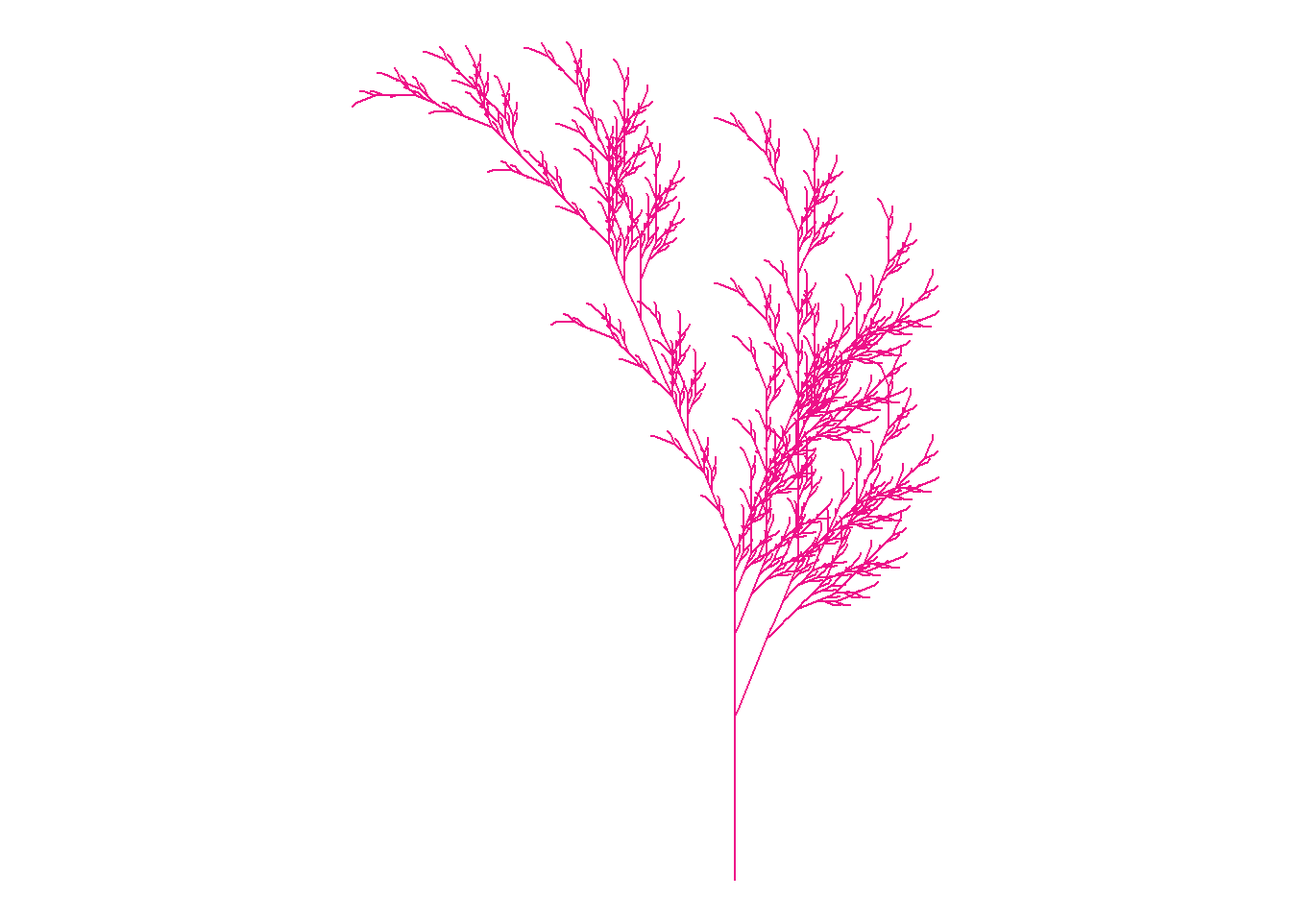
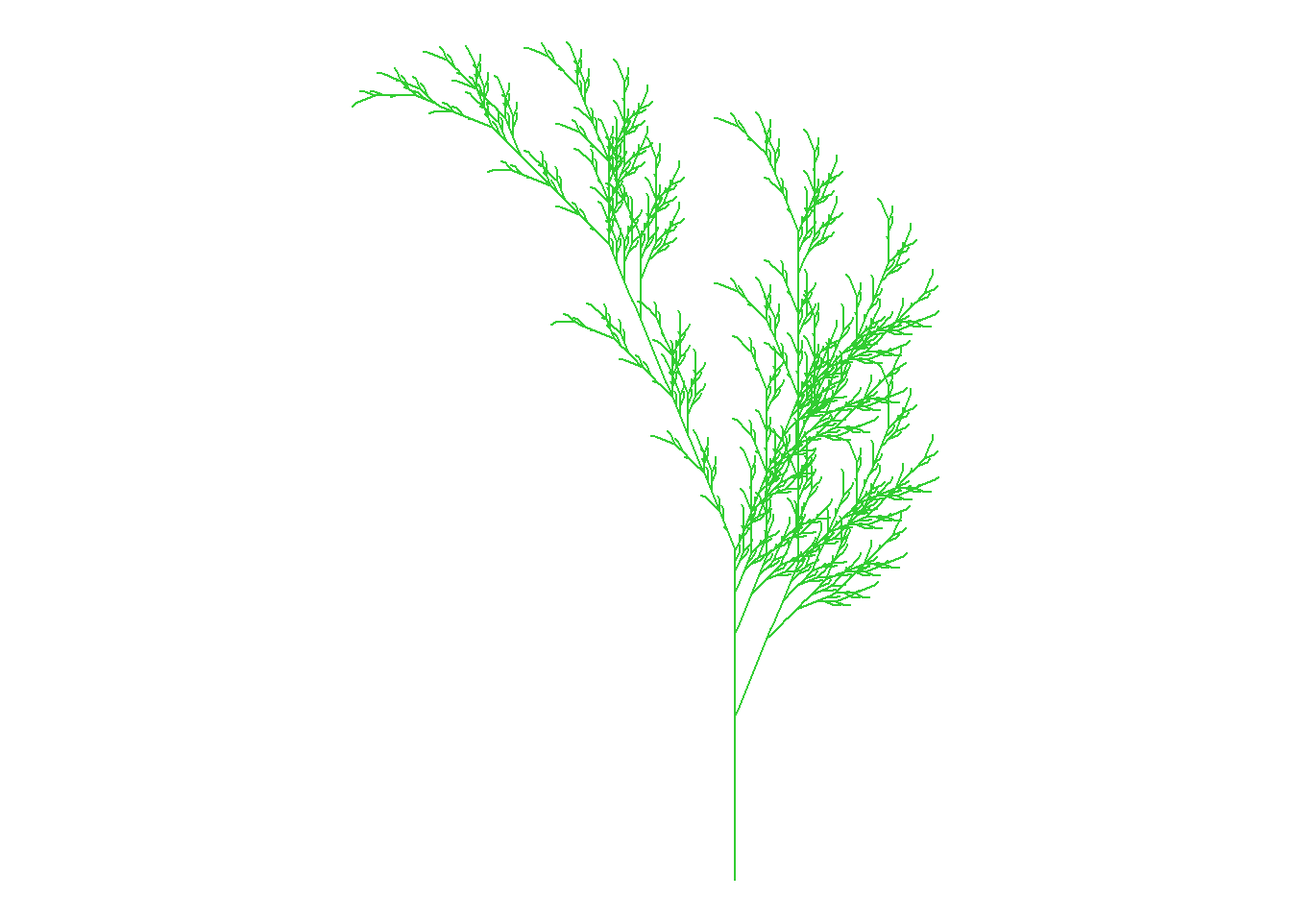
Add files via upload

Changed region(s): [[0.5, 0.1562, 0.7188, 0.6875], [0.2812, 0.0625, 0.5625, 0.4375], [0.5625, 0.125, 0.5938, 0.1562]]

diff --git a/assign01.html b/assign01.html
@@ -226,23 +226,21 @@ code span.wa { color: #60a0b0; font-weight: bold; font-style: italic; } /* Warni
 <section id="source-1-cf12_740-by-mark-j.-stock." class="level3">
 <h3 class="anchored" data-anchor-id="source-1-cf12_740-by-mark-j.-stock.">Source 1: CF12_740 by Mark J. Stock.</h3>
 <p>The page features stunning examples of generative art.</p>
-<div class="CF12_740">
-<p><img src="https://images.squarespace-cdn.com/content/v1/56229771e4b08ff533e7de79/1525204005127-5M79BWJHWPLBF67EXMQ5/CF12_740_2000.jpg" class="img-fluid" style="width:60.0%"></p>
-</div>
+<p>CF12_740 <img src="https://images.squarespace-cdn.com/content/v1/56229771e4b08ff533e7de79/1525204005127-5M79BWJHWPLBF67EXMQ5/CF12_740_2000.jpg" class="img-fluid" style="width:60.0%"></p>
 </section>
 <section id="source-2-fifty-sisters-by-jon-mccormack" class="level3">
 <h3 class="anchored" data-anchor-id="source-2-fifty-sisters-by-jon-mccormack">Source 2: Fifty Sisters by Jon McCormack</h3>
-<p>::: Fifty Sisters <img src="https://images.squarespace-cdn.com/content/v1/5c77350965a707ed1710a1bc/1564619956639-3MYJ13R8XFZ6YXKZ368C/FiftySisters.png" class="img-fluid" style="width:60.0%"></p>
-<p>:::</p>
+<p>Fifty Sisters <img src="https://images.squarespace-cdn.com/content/v1/5c77350965a707ed1710a1bc/1564619956639-3MYJ13R8XFZ6YXKZ368C/FiftySisters.png" class="img-fluid" style="width:60.0%"></p>
 </section>
 <section id="source-3-electric-sheep-by-scott-draves" class="level3">
 <h3 class="anchored" data-anchor-id="source-3-electric-sheep-by-scott-draves">Source 3: Electric Sheep by Scott Draves</h3>
-<p>::: Electric Sheep <img src="http://electricsheep.com/archives/generation-243/16927/electricsheep.243.16927.jpg" class="img-fluid" style="width:70.0%"> :::</p>
+<p>Electric Sheep <img src="http://electricsheep.com/archives/generation-243/16927/electricsheep.243.16927.jpg" class="img-fluid" style="width:70.0%"></p>
 </section>
 </section>
 <section id="fall-color" class="level2">
 <h2 class="anchored" data-anchor-id="fall-color">2. Fall Color</h2>
-<p>This is a modified version of “Fall Color,” using the color “deep pink” instead of “burlywood3.”</p>
+<p>This is a modified version of “Fall Color,” using the color “limegreen” instead of “burlywood3.”</p>
+<p>I don’t want summer to end so I brought the leaf back to life.</p>
 <p>Credit: <a href="https://fronkonstin.com" class="uri">https://fronkonstin.com</a></p>
 <div class="cell">
 <details>
@@ -300,7 +298,7 @@ code span.wa { color: #60a0b0; font-weight: bold; font-style: italic; } /* Warni
 <span id="cb1-51"><a href="#cb1-51" aria-hidden="true" tabindex="-1"></a><span class="fu">ggplot</span>() <span class="sc">+</span></span>
 <span id="cb1-52"><a href="#cb1-52" aria-hidden="true" tabindex="-1"></a>  <span class="fu">geom_segment</span>(<span class="fu">aes</span>(<span class="at">x =</span> x1, <span class="at">y =</span> y1, <span class="at">xend =</span> x2, <span class="at">yend =</span> y2),</span>
 <span id="cb1-53"><a href="#cb1-53" aria-hidden="true" tabindex="-1"></a>               <span class="at">lineend =</span> <span class="st">"round"</span>,</span>
-<span id="cb1-54"><a href="#cb1-54" aria-hidden="true" tabindex="-1"></a>               <span class="at">color=</span><span class="st">"deeppink2"</span>, <span class="co"># Set your own Fall color?</span></span>
+<span id="cb1-54"><a href="#cb1-54" aria-hidden="true" tabindex="-1"></a>               <span class="at">color=</span><span class="st">"limegreen"</span>, <span class="co"># Set your own Fall color? </span></span>
 <span id="cb1-55"><a href="#cb1-55" aria-hidden="true" tabindex="-1"></a>               <span class="at">data=</span><span class="fu">na.omit</span>(points)) <span class="sc">+</span></span>
 <span id="cb1-56"><a href="#cb1-56" aria-hidden="true" tabindex="-1"></a>  <span class="fu">coord_fixed</span>(<span class="at">ratio =</span> <span class="dv">1</span>) <span class="sc">+</span></span>
 <span id="cb1-57"><a href="#cb1-57" aria-hidden="true" tabindex="-1"></a>  <span class="fu">theme_void</span>() <span class="co"># No grid nor axes</span></span></code><button title="Copy to Clipboard" class="code-copy-button"><i class="bi"></i></button></pre></div>
@@ -309,7 +307,7 @@ code span.wa { color: #60a0b0; font-weight: bold; font-style: italic; } /* Warni
 <div id="fig-black" class="quarto-figure quarto-figure-center anchored">
 <figure class="figure">
 <p><img src="assign01_files/figure-html/fig-black-1.png" class="img-fluid figure-img" width="672"></p>
-<p></p><figcaption class="figure-caption">Figure&nbsp;1: black Color</figcaption><p></p>
+<p></p><figcaption class="figure-caption">Figure&nbsp;1: Lime Green (Alive) Leaf</figcaption><p></p>
 </figure>
 </div>
 </div>
@@ -318,7 +316,7 @@ code span.wa { color: #60a0b0; font-weight: bold; font-style: italic; } /* Warni
 <section id="critique-on-a-chart-from-published-work" class="level2">
 <h2 class="anchored" data-anchor-id="critique-on-a-chart-from-published-work">3. Critique on a chart from published work</h2>
 <p>This chart from Zillow Observed Rent Index and the US Bureau of Labor Statistics shows rent prices outpacing wages in recent years. It shows two lines of different colors, one to represent wages, one to represent rent prices. The chart shows that rent prices are increasing faster than wages, which shows the viewer that rent is becoming increasingly unaffordable.</p>
-<p>::: Rent When Compared to Wages <img src="https://wp-assets.stessa.com/wp-content/uploads/2021/11/02101430/Chart1_Changes-in-rental-prices-are-dramatically-outpacing-changes-in-pay.png" class="img-fluid" style="width:70.0%"></p>
+<p>Rent When Compared to Wages <img src="https://wp-assets.stessa.com/wp-content/uploads/2021/11/02101430/Chart1_Changes-in-rental-prices-are-dramatically-outpacing-changes-in-pay.png" class="img-fluid" style="width:70.0%"></p>
 <p>Rent prices compared to wages :::</p>
 <p>https://www.stessa.com/blog/cities-wages-growing-faster-than-rents/</p>
 
@@ -495,98 +493,100 @@ window.document.addEventListener("DOMContentLoaded", function (event) {
 <span id="cb2-16"><a href="#cb2-16" aria-hidden="true" tabindex="-1"></a></span>
 <span id="cb2-17"><a href="#cb2-17" aria-hidden="true" tabindex="-1"></a>The page features stunning examples of generative art.</span>
 <span id="cb2-18"><a href="#cb2-18" aria-hidden="true" tabindex="-1"></a></span>
-<span id="cb2-19"><a href="#cb2-19" aria-hidden="true" tabindex="-1"></a>::: CF12_740</span>
+<span id="cb2-19"><a href="#cb2-19" aria-hidden="true" tabindex="-1"></a>CF12_740</span>
 <span id="cb2-20"><a href="#cb2-20" aria-hidden="true" tabindex="-1"></a><span class="al">![](https://images.squarespace-cdn.com/content/v1/56229771e4b08ff533e7de79/1525204005127-5M79BWJHWPLBF67EXMQ5/CF12_740_2000.jpg)</span>{width="60%"}</span>
-<span id="cb2-21"><a href="#cb2-21" aria-hidden="true" tabindex="-1"></a>:::</span>
+<span id="cb2-21"><a href="#cb2-21" aria-hidden="true" tabindex="-1"></a></span>
 <span id="cb2-22"><a href="#cb2-22" aria-hidden="true" tabindex="-1"></a></span>
 <span id="cb2-23"><a href="#cb2-23" aria-hidden="true" tabindex="-1"></a><span class="fu">### Source 2: Fifty Sisters by Jon McCormack</span></span>
 <span id="cb2-24"><a href="#cb2-24" aria-hidden="true" tabindex="-1"></a></span>
-<span id="cb2-25"><a href="#cb2-25" aria-hidden="true" tabindex="-1"></a>::: Fifty Sisters <span class="al">![](https://images.squarespace-cdn.com/content/v1/5c77350965a707ed1710a1bc/1564619956639-3MYJ13R8XFZ6YXKZ368C/FiftySisters.png)</span>{width="60%"}</span>
+<span id="cb2-25"><a href="#cb2-25" aria-hidden="true" tabindex="-1"></a>Fifty Sisters <span class="al">![](https://images.squarespace-cdn.com/content/v1/5c77350965a707ed1710a1bc/1564619956639-3MYJ13R8XFZ6YXKZ368C/FiftySisters.png)</span>{width="60%"}</span>
 <span id="cb2-26"><a href="#cb2-26" aria-hidden="true" tabindex="-1"></a></span>
-<span id="cb2-27"><a href="#cb2-27" aria-hidden="true" tabindex="-1"></a>:::</span>
+<span id="cb2-27"><a href="#cb2-27" aria-hidden="true" tabindex="-1"></a></span>
 <span id="cb2-28"><a href="#cb2-28" aria-hidden="true" tabindex="-1"></a></span>
 <span id="cb2-29"><a href="#cb2-29" aria-hidden="true" tabindex="-1"></a><span class="fu">### Source 3: Electric Sheep by Scott Draves</span></span>
 <span id="cb2-30"><a href="#cb2-30" aria-hidden="true" tabindex="-1"></a></span>
-<span id="cb2-31"><a href="#cb2-31" aria-hidden="true" tabindex="-1"></a>::: Electric Sheep <span class="al">![](http://electricsheep.com/archives/generation-243/16927/electricsheep.243.16927.jpg)</span>{width="70%"} :::</span>
+<span id="cb2-31"><a href="#cb2-31" aria-hidden="true" tabindex="-1"></a>Electric Sheep <span class="al">![](http://electricsheep.com/archives/generation-243/16927/electricsheep.243.16927.jpg)</span>{width="70%"} </span>
 <span id="cb2-32"><a href="#cb2-32" aria-hidden="true" tabindex="-1"></a></span>
 <span id="cb2-33"><a href="#cb2-33" aria-hidden="true" tabindex="-1"></a><span class="fu">## 2. Fall Color</span></span>
 <span id="cb2-34"><a href="#cb2-34" aria-hidden="true" tabindex="-1"></a></span>
-<span id="cb2-35"><a href="#cb2-35" aria-hidden="true" tabindex="-1"></a>This is a modified version of "Fall Color," using the color "deep pink" instead of "burlywood3."</span>
+<span id="cb2-35"><a href="#cb2-35" aria-hidden="true" tabindex="-1"></a>This is a modified version of "Fall Color," using the color "limegreen" instead of "burlywood3."</span>
 <span id="cb2-36"><a href="#cb2-36" aria-hidden="true" tabindex="-1"></a></span>
-<span id="cb2-37"><a href="#cb2-37" aria-hidden="true" tabindex="-1"></a>Credit: <span class="ot">&lt;https://fronkonstin.com&gt;</span></span>
+<span id="cb2-37"><a href="#cb2-37" aria-hidden="true" tabindex="-1"></a>I don't want summer to end so I brought the leaf back to life.</span>
 <span id="cb2-38"><a href="#cb2-38" aria-hidden="true" tabindex="-1"></a></span>
-<span id="cb2-41"><a href="#cb2-41" aria-hidden="true" tabindex="-1"></a><span class="in">```{r}</span></span>
-<span id="cb2-42"><a href="#cb2-42" aria-hidden="true" tabindex="-1"></a><span class="co">#| warning: false</span></span>
-<span id="cb2-43"><a href="#cb2-43" aria-hidden="true" tabindex="-1"></a><span class="co">#| label: fig-black</span></span>
-<span id="cb2-44"><a href="#cb2-44" aria-hidden="true" tabindex="-1"></a><span class="co">#| fig-cap: "black Color"</span></span>
-<span id="cb2-45"><a href="#cb2-45" aria-hidden="true" tabindex="-1"></a><span class="co"># Install packages</span></span>
-<span id="cb2-46"><a href="#cb2-46" aria-hidden="true" tabindex="-1"></a><span class="co"># install.packages("gsubfn")</span></span>
-<span id="cb2-47"><a href="#cb2-47" aria-hidden="true" tabindex="-1"></a><span class="co"># install.packages("tidyverse")</span></span>
-<span id="cb2-48"><a href="#cb2-48" aria-hidden="true" tabindex="-1"></a><span class="fu">library</span>(gsubfn)</span>
-<span id="cb2-49"><a href="#cb2-49" aria-hidden="true" tabindex="-1"></a><span class="fu">library</span>(tidyverse)</span>
-<span id="cb2-50"><a href="#cb2-50" aria-hidden="true" tabindex="-1"></a><span class="co"># Define elements in plant art</span></span>
-<span id="cb2-51"><a href="#cb2-51" aria-hidden="true" tabindex="-1"></a><span class="co"># Each image corresponds to a different axiom, rules, angle and depth</span></span>
-<span id="cb2-52"><a href="#cb2-52" aria-hidden="true" tabindex="-1"></a><span class="co"># Leaf of Fall</span></span>
-<span id="cb2-53"><a href="#cb2-53" aria-hidden="true" tabindex="-1"></a>axiom<span class="ot">=</span><span class="st">"X"</span></span>
-<span id="cb2-54"><a href="#cb2-54" aria-hidden="true" tabindex="-1"></a>rules<span class="ot">=</span><span class="fu">list</span>(<span class="st">"X"</span><span class="ot">=</span><span class="st">"F-[[X]+X]+F[+FX]-X"</span>, <span class="st">"F"</span><span class="ot">=</span><span class="st">"FF"</span>)</span>
-<span id="cb2-55"><a href="#cb2-55" aria-hidden="true" tabindex="-1"></a>angle<span class="ot">=</span><span class="fl">22.5</span></span>
-<span id="cb2-56"><a href="#cb2-56" aria-hidden="true" tabindex="-1"></a>depth<span class="ot">=</span><span class="dv">6</span></span>
-<span id="cb2-57"><a href="#cb2-57" aria-hidden="true" tabindex="-1"></a><span class="cf">for</span> (i <span class="cf">in</span> <span class="dv">1</span><span class="sc">:</span>depth) axiom<span class="ot">=</span><span class="fu">gsubfn</span>(<span class="st">"."</span>, rules, axiom)</span>
-<span id="cb2-58"><a href="#cb2-58" aria-hidden="true" tabindex="-1"></a>actions<span class="ot">=</span><span class="fu">str_extract_all</span>(axiom, <span class="st">"</span><span class="sc">\\</span><span class="st">d*</span><span class="sc">\\</span><span class="st">+|</span><span class="sc">\\</span><span class="st">d*</span><span class="sc">\\</span><span class="st">-|F|L|R|</span><span class="sc">\\</span><span class="st">[|</span><span class="sc">\\</span><span class="st">]|</span><span class="sc">\\</span><span class="st">|"</span>) <span class="sc">%&gt;%</span> unlist</span>
-<span id="cb2-59"><a href="#cb2-59" aria-hidden="true" tabindex="-1"></a>status<span class="ot">=</span><span class="fu">data.frame</span>(<span class="at">x=</span><span class="fu">numeric</span>(<span class="dv">0</span>), <span class="at">y=</span><span class="fu">numeric</span>(<span class="dv">0</span>), <span class="at">alfa=</span><span class="fu">numeric</span>(<span class="dv">0</span>))</span>
-<span id="cb2-60"><a href="#cb2-60" aria-hidden="true" tabindex="-1"></a>points<span class="ot">=</span><span class="fu">data.frame</span>(<span class="at">x1 =</span> <span class="dv">0</span>, <span class="at">y1 =</span> <span class="dv">0</span>, <span class="at">x2 =</span> <span class="cn">NA</span>, <span class="at">y2 =</span> <span class="cn">NA</span>, <span class="at">alfa=</span><span class="dv">90</span>, <span class="at">depth=</span><span class="dv">1</span>)</span>
-<span id="cb2-61"><a href="#cb2-61" aria-hidden="true" tabindex="-1"></a><span class="co"># Generating data</span></span>
-<span id="cb2-62"><a href="#cb2-62" aria-hidden="true" tabindex="-1"></a><span class="co"># Note: may take a minute or two</span></span>
-<span id="cb2-63"><a href="#cb2-63" aria-hidden="true" tabindex="-1"></a><span class="cf">for</span> (action <span class="cf">in</span> actions)</span>
-<span id="cb2-64"><a href="#cb2-64" aria-hidden="true" tabindex="-1"></a>{</span>
-<span id="cb2-65"><a href="#cb2-65" aria-hidden="true" tabindex="-1"></a>  <span class="cf">if</span> (action<span class="sc">==</span><span class="st">"F"</span>)</span>
-<span id="cb2-66"><a href="#cb2-66" aria-hidden="true" tabindex="-1"></a>  {</span>
-<span id="cb2-67"><a href="#cb2-67" aria-hidden="true" tabindex="-1"></a>    x<span class="ot">=</span>points[<span class="dv">1</span>, <span class="st">"x1"</span>]<span class="sc">+</span><span class="fu">cos</span>(points[<span class="dv">1</span>, <span class="st">"alfa"</span>]<span class="sc">*</span>(pi<span class="sc">/</span><span class="dv">180</span>))</span>
-<span id="cb2-68"><a href="#cb2-68" aria-hidden="true" tabindex="-1"></a>    y<span class="ot">=</span>points[<span class="dv">1</span>, <span class="st">"y1"</span>]<span class="sc">+</span><span class="fu">sin</span>(points[<span class="dv">1</span>, <span class="st">"alfa"</span>]<span class="sc">*</span>(pi<span class="sc">/</span><span class="dv">180</span>))</span>
-<span id="cb2-69"><a href="#cb2-69" aria-hidden="true" tabindex="-1"></a>    points[<span class="dv">1</span>,<span class="st">"x2"</span>]<span class="ot">=</span>x</span>
-<span id="cb2-70"><a href="#cb2-70" aria-hidden="true" tabindex="-1"></a>    points[<span class="dv">1</span>,<span class="st">"y2"</span>]<span class="ot">=</span>y</span>
-<span id="cb2-71"><a href="#cb2-71" aria-hidden="true" tabindex="-1"></a>    <span class="fu">data.frame</span>(<span class="at">x1 =</span> x, <span class="at">y1 =</span> y, <span class="at">x2 =</span> <span class="cn">NA</span>, <span class="at">y2 =</span> <span class="cn">NA</span>,</span>
-<span id="cb2-72"><a href="#cb2-72" aria-hidden="true" tabindex="-1"></a>               <span class="at">alfa=</span>points[<span class="dv">1</span>, <span class="st">"alfa"</span>],</span>
-<span id="cb2-73"><a href="#cb2-73" aria-hidden="true" tabindex="-1"></a>               <span class="at">depth=</span>points[<span class="dv">1</span>,<span class="st">"depth"</span>]) <span class="sc">%&gt;%</span> <span class="fu">rbind</span>(points)<span class="ot">-&gt;</span>points</span>
-<span id="cb2-74"><a href="#cb2-74" aria-hidden="true" tabindex="-1"></a>  }</span>
-<span id="cb2-75"><a href="#cb2-75" aria-hidden="true" tabindex="-1"></a>  <span class="cf">if</span> (action <span class="sc">%in%</span> <span class="fu">c</span>(<span class="st">"+"</span>, <span class="st">"-"</span>)){</span>
-<span id="cb2-76"><a href="#cb2-76" aria-hidden="true" tabindex="-1"></a>    alfa<span class="ot">=</span>points[<span class="dv">1</span>, <span class="st">"alfa"</span>]</span>
-<span id="cb2-77"><a href="#cb2-77" aria-hidden="true" tabindex="-1"></a>    points[<span class="dv">1</span>, <span class="st">"alfa"</span>]<span class="ot">=</span><span class="fu">eval</span>(<span class="fu">parse</span>(<span class="at">text=</span><span class="fu">paste0</span>(<span class="st">"alfa"</span>,action, angle)))</span>
-<span id="cb2-78"><a href="#cb2-78" aria-hidden="true" tabindex="-1"></a>  }</span>
-<span id="cb2-79"><a href="#cb2-79" aria-hidden="true" tabindex="-1"></a>  <span class="cf">if</span>(action<span class="sc">==</span><span class="st">"["</span>){</span>
-<span id="cb2-80"><a href="#cb2-80" aria-hidden="true" tabindex="-1"></a>    <span class="fu">data.frame</span>(<span class="at">x=</span>points[<span class="dv">1</span>, <span class="st">"x1"</span>], <span class="at">y=</span>points[<span class="dv">1</span>, <span class="st">"y1"</span>], <span class="at">alfa=</span>points[<span class="dv">1</span>, <span class="st">"alfa"</span>]) <span class="sc">%&gt;%</span></span>
-<span id="cb2-81"><a href="#cb2-81" aria-hidden="true" tabindex="-1"></a>      <span class="fu">rbind</span>(status) <span class="ot">-&gt;</span> status</span>
-<span id="cb2-82"><a href="#cb2-82" aria-hidden="true" tabindex="-1"></a>    points[<span class="dv">1</span>, <span class="st">"depth"</span>]<span class="ot">=</span>points[<span class="dv">1</span>, <span class="st">"depth"</span>]<span class="sc">+</span><span class="dv">1</span></span>
-<span id="cb2-83"><a href="#cb2-83" aria-hidden="true" tabindex="-1"></a>  }</span>
-<span id="cb2-84"><a href="#cb2-84" aria-hidden="true" tabindex="-1"></a>  </span>
-<span id="cb2-85"><a href="#cb2-85" aria-hidden="true" tabindex="-1"></a>  <span class="cf">if</span>(action<span class="sc">==</span><span class="st">"]"</span>){</span>
-<span id="cb2-86"><a href="#cb2-86" aria-hidden="true" tabindex="-1"></a>    depth<span class="ot">=</span>points[<span class="dv">1</span>, <span class="st">"depth"</span>]</span>
-<span id="cb2-87"><a href="#cb2-87" aria-hidden="true" tabindex="-1"></a>    points[<span class="sc">-</span><span class="dv">1</span>,]<span class="ot">-&gt;</span>points</span>
-<span id="cb2-88"><a href="#cb2-88" aria-hidden="true" tabindex="-1"></a>    <span class="fu">data.frame</span>(<span class="at">x1=</span>status[<span class="dv">1</span>, <span class="st">"x"</span>], <span class="at">y1=</span>status[<span class="dv">1</span>, <span class="st">"y"</span>], <span class="at">x2=</span><span class="cn">NA</span>, <span class="at">y2=</span><span class="cn">NA</span>,</span>
-<span id="cb2-89"><a href="#cb2-89" aria-hidden="true" tabindex="-1"></a>               <span class="at">alfa=</span>status[<span class="dv">1</span>, <span class="st">"alfa"</span>],</span>
-<span id="cb2-90"><a href="#cb2-90" aria-hidden="true" tabindex="-1"></a>               <span class="at">depth=</span>depth<span class="dv">-1</span>) <span class="sc">%&gt;%</span></span>
-<span id="cb2-91"><a href="#cb2-91" aria-hidden="true" tabindex="-1"></a>      <span class="fu">rbind</span>(points) <span class="ot">-&gt;</span> points</span>
-<span id="cb2-92"><a href="#cb2-92" aria-hidden="true" tabindex="-1"></a>    status[<span class="sc">-</span><span class="dv">1</span>,]<span class="ot">-&gt;</span>status</span>
-<span id="cb2-93"><a href="#cb2-93" aria-hidden="true" tabindex="-1"></a>  }</span>
-<span id="cb2-94"><a href="#cb2-94" aria-hidden="true" tabindex="-1"></a>}</span>
-<span id="cb2-95"><a href="#cb2-95" aria-hidden="true" tabindex="-1"></a><span class="fu">ggplot</span>() <span class="sc">+</span></span>
-<span id="cb2-96"><a href="#cb2-96" aria-hidden="true" tabindex="-1"></a>  <span class="fu">geom_segment</span>(<span class="fu">aes</span>(<span class="at">x =</span> x1, <span class="at">y =</span> y1, <span class="at">xend =</span> x2, <span class="at">yend =</span> y2),</span>
-<span id="cb2-97"><a href="#cb2-97" aria-hidden="true" tabindex="-1"></a>               <span class="at">lineend =</span> <span class="st">"round"</span>,</span>
-<span id="cb2-98"><a href="#cb2-98" aria-hidden="true" tabindex="-1"></a>               <span class="at">color=</span><span class="st">"deeppink2"</span>, <span class="co"># Set your own Fall color?</span></span>
-<span id="cb2-99"><a href="#cb2-99" aria-hidden="true" tabindex="-1"></a>               <span class="at">data=</span><span class="fu">na.omit</span>(points)) <span class="sc">+</span></span>
-<span id="cb2-100"><a href="#cb2-100" aria-hidden="true" tabindex="-1"></a>  <span class="fu">coord_fixed</span>(<span class="at">ratio =</span> <span class="dv">1</span>) <span class="sc">+</span></span>
-<span id="cb2-101"><a href="#cb2-101" aria-hidden="true" tabindex="-1"></a>  <span class="fu">theme_void</span>() <span class="co"># No grid nor axes</span></span>
-<span id="cb2-102"><a href="#cb2-102" aria-hidden="true" tabindex="-1"></a><span class="in">```</span></span>
-<span id="cb2-103"><a href="#cb2-103" aria-hidden="true" tabindex="-1"></a></span>
-<span id="cb2-104"><a href="#cb2-104" aria-hidden="true" tabindex="-1"></a><span class="fu">## 3. Critique on a chart from published work</span></span>
+<span id="cb2-39"><a href="#cb2-39" aria-hidden="true" tabindex="-1"></a>Credit: <span class="ot">&lt;https://fronkonstin.com&gt;</span></span>
+<span id="cb2-40"><a href="#cb2-40" aria-hidden="true" tabindex="-1"></a></span>
+<span id="cb2-43"><a href="#cb2-43" aria-hidden="true" tabindex="-1"></a><span class="in">```{r}</span></span>
+<span id="cb2-44"><a href="#cb2-44" aria-hidden="true" tabindex="-1"></a><span class="co">#| warning: false</span></span>
+<span id="cb2-45"><a href="#cb2-45" aria-hidden="true" tabindex="-1"></a><span class="co">#| label: fig-black</span></span>
+<span id="cb2-46"><a href="#cb2-46" aria-hidden="true" tabindex="-1"></a><span class="co">#| fig-cap: "Lime Green (Alive) Leaf"</span></span>
+<span id="cb2-47"><a href="#cb2-47" aria-hidden="true" tabindex="-1"></a><span class="co"># Install packages</span></span>
+<span id="cb2-48"><a href="#cb2-48" aria-hidden="true" tabindex="-1"></a><span class="co"># install.packages("gsubfn")</span></span>
+<span id="cb2-49"><a href="#cb2-49" aria-hidden="true" tabindex="-1"></a><span class="co"># install.packages("tidyverse")</span></span>
+<span id="cb2-50"><a href="#cb2-50" aria-hidden="true" tabindex="-1"></a><span class="fu">library</span>(gsubfn)</span>
+<span id="cb2-51"><a href="#cb2-51" aria-hidden="true" tabindex="-1"></a><span class="fu">library</span>(tidyverse)</span>
+<span id="cb2-52"><a href="#cb2-52" aria-hidden="true" tabindex="-1"></a><span class="co"># Define elements in plant art</span></span>
+<span id="cb2-53"><a href="#cb2-53" aria-hidden="true" tabindex="-1"></a><span class="co"># Each image corresponds to a different axiom, rules, angle and depth</span></span>
+<span id="cb2-54"><a href="#cb2-54" aria-hidden="true" tabindex="-1"></a><span class="co"># Leaf of Fall</span></span>
+<span id="cb2-55"><a href="#cb2-55" aria-hidden="true" tabindex="-1"></a>axiom<span class="ot">=</span><span class="st">"X"</span></span>
+<span id="cb2-56"><a href="#cb2-56" aria-hidden="true" tabindex="-1"></a>rules<span class="ot">=</span><span class="fu">list</span>(<span class="st">"X"</span><span class="ot">=</span><span class="st">"F-[[X]+X]+F[+FX]-X"</span>, <span class="st">"F"</span><span class="ot">=</span><span class="st">"FF"</span>)</span>
+<span id="cb2-57"><a href="#cb2-57" aria-hidden="true" tabindex="-1"></a>angle<span class="ot">=</span><span class="fl">22.5</span></span>
+<span id="cb2-58"><a href="#cb2-58" aria-hidden="true" tabindex="-1"></a>depth<span class="ot">=</span><span class="dv">6</span></span>
+<span id="cb2-59"><a href="#cb2-59" aria-hidden="true" tabindex="-1"></a><span class="cf">for</span> (i <span class="cf">in</span> <span class="dv">1</span><span class="sc">:</span>depth) axiom<span class="ot">=</span><span class="fu">gsubfn</span>(<span class="st">"."</span>, rules, axiom)</span>
+<span id="cb2-60"><a href="#cb2-60" aria-hidden="true" tabindex="-1"></a>actions<span class="ot">=</span><span class="fu">str_extract_all</span>(axiom, <span class="st">"</span><span class="sc">\\</span><span class="st">d*</span><span class="sc">\\</span><span class="st">+|</span><span class="sc">\\</span><span class="st">d*</span><span class="sc">\\</span><span class="st">-|F|L|R|</span><span class="sc">\\</span><span class="st">[|</span><span class="sc">\\</span><span class="st">]|</span><span class="sc">\\</span><span class="st">|"</span>) <span class="sc">%&gt;%</span> unlist</span>
+<span id="cb2-61"><a href="#cb2-61" aria-hidden="true" tabindex="-1"></a>status<span class="ot">=</span><span class="fu">data.frame</span>(<span class="at">x=</span><span class="fu">numeric</span>(<span class="dv">0</span>), <span class="at">y=</span><span class="fu">numeric</span>(<span class="dv">0</span>), <span class="at">alfa=</span><span class="fu">numeric</span>(<span class="dv">0</span>))</span>
+<span id="cb2-62"><a href="#cb2-62" aria-hidden="true" tabindex="-1"></a>points<span class="ot">=</span><span class="fu">data.frame</span>(<span class="at">x1 =</span> <span class="dv">0</span>, <span class="at">y1 =</span> <span class="dv">0</span>, <span class="at">x2 =</span> <span class="cn">NA</span>, <span class="at">y2 =</span> <span class="cn">NA</span>, <span class="at">alfa=</span><span class="dv">90</span>, <span class="at">depth=</span><span class="dv">1</span>)</span>
+<span id="cb2-63"><a href="#cb2-63" aria-hidden="true" tabindex="-1"></a><span class="co"># Generating data</span></span>
+<span id="cb2-64"><a href="#cb2-64" aria-hidden="true" tabindex="-1"></a><span class="co"># Note: may take a minute or two</span></span>
+<span id="cb2-65"><a href="#cb2-65" aria-hidden="true" tabindex="-1"></a><span class="cf">for</span> (action <span class="cf">in</span> actions)</span>
+<span id="cb2-66"><a href="#cb2-66" aria-hidden="true" tabindex="-1"></a>{</span>
+<span id="cb2-67"><a href="#cb2-67" aria-hidden="true" tabindex="-1"></a>  <span class="cf">if</span> (action<span class="sc">==</span><span class="st">"F"</span>)</span>
+<span id="cb2-68"><a href="#cb2-68" aria-hidden="true" tabindex="-1"></a>  {</span>
+<span id="cb2-69"><a href="#cb2-69" aria-hidden="true" tabindex="-1"></a>    x<span class="ot">=</span>points[<span class="dv">1</span>, <span class="st">"x1"</span>]<span class="sc">+</span><span class="fu">cos</span>(points[<span class="dv">1</span>, <span class="st">"alfa"</span>]<span class="sc">*</span>(pi<span class="sc">/</span><span class="dv">180</span>))</span>
+<span id="cb2-70"><a href="#cb2-70" aria-hidden="true" tabindex="-1"></a>    y<span class="ot">=</span>points[<span class="dv">1</span>, <span class="st">"y1"</span>]<span class="sc">+</span><span class="fu">sin</span>(points[<span class="dv">1</span>, <span class="st">"alfa"</span>]<span class="sc">*</span>(pi<span class="sc">/</span><span class="dv">180</span>))</span>
+<span id="cb2-71"><a href="#cb2-71" aria-hidden="true" tabindex="-1"></a>    points[<span class="dv">1</span>,<span class="st">"x2"</span>]<span class="ot">=</span>x</span>
+<span id="cb2-72"><a href="#cb2-72" aria-hidden="true" tabindex="-1"></a>    points[<span class="dv">1</span>,<span class="st">"y2"</span>]<span class="ot">=</span>y</span>
+<span id="cb2-73"><a href="#cb2-73" aria-hidden="true" tabindex="-1"></a>    <span class="fu">data.frame</span>(<span class="at">x1 =</span> x, <span class="at">y1 =</span> y, <span class="at">x2 =</span> <span class="cn">NA</span>, <span class="at">y2 =</span> <span class="cn">NA</span>,</span>
+<span id="cb2-74"><a href="#cb2-74" aria-hidden="true" tabindex="-1"></a>               <span class="at">alfa=</span>points[<span class="dv">1</span>, <span class="st">"alfa"</span>],</span>
+<span id="cb2-75"><a href="#cb2-75" aria-hidden="true" tabindex="-1"></a>               <span class="at">depth=</span>points[<span class="dv">1</span>,<span class="st">"depth"</span>]) <span class="sc">%&gt;%</span> <span class="fu">rbind</span>(points)<span class="ot">-&gt;</span>points</span>
+<span id="cb2-76"><a href="#cb2-76" aria-hidden="true" tabindex="-1"></a>  }</span>
+<span id="cb2-77"><a href="#cb2-77" aria-hidden="true" tabindex="-1"></a>  <span class="cf">if</span> (action <span class="sc">%in%</span> <span class="fu">c</span>(<span class="st">"+"</span>, <span class="st">"-"</span>)){</span>
+<span id="cb2-78"><a href="#cb2-78" aria-hidden="true" tabindex="-1"></a>    alfa<span class="ot">=</span>points[<span class="dv">1</span>, <span class="st">"alfa"</span>]</span>
+<span id="cb2-79"><a href="#cb2-79" aria-hidden="true" tabindex="-1"></a>    points[<span class="dv">1</span>, <span class="st">"alfa"</span>]<span class="ot">=</span><span class="fu">eval</span>(<span class="fu">parse</span>(<span class="at">text=</span><span class="fu">paste0</span>(<span class="st">"alfa"</span>,action, angle)))</span>
+<span id="cb2-80"><a href="#cb2-80" aria-hidden="true" tabindex="-1"></a>  }</span>
+<span id="cb2-81"><a href="#cb2-81" aria-hidden="true" tabindex="-1"></a>  <span class="cf">if</span>(action<span class="sc">==</span><span class="st">"["</span>){</span>
+<span id="cb2-82"><a href="#cb2-82" aria-hidden="true" tabindex="-1"></a>    <span class="fu">data.frame</span>(<span class="at">x=</span>points[<span class="dv">1</span>, <span class="st">"x1"</span>], <span class="at">y=</span>points[<span class="dv">1</span>, <span class="st">"y1"</span>], <span class="at">alfa=</span>points[<span class="dv">1</span>, <span class="st">"alfa"</span>]) <span class="sc">%&gt;%</span></span>
+<span id="cb2-83"><a href="#cb2-83" aria-hidden="true" tabindex="-1"></a>      <span class="fu">rbind</span>(status) <span class="ot">-&gt;</span> status</span>
+<span id="cb2-84"><a href="#cb2-84" aria-hidden="true" tabindex="-1"></a>    points[<span class="dv">1</span>, <span class="st">"depth"</span>]<span class="ot">=</span>points[<span class="dv">1</span>, <span class="st">"depth"</span>]<span class="sc">+</span><span class="dv">1</span></span>
+<span id="cb2-85"><a href="#cb2-85" aria-hidden="true" tabindex="-1"></a>  }</span>
+<span id="cb2-86"><a href="#cb2-86" aria-hidden="true" tabindex="-1"></a>  </span>
+<span id="cb2-87"><a href="#cb2-87" aria-hidden="true" tabindex="-1"></a>  <span class="cf">if</span>(action<span class="sc">==</span><span class="st">"]"</span>){</span>
+<span id="cb2-88"><a href="#cb2-88" aria-hidden="true" tabindex="-1"></a>    depth<span class="ot">=</span>points[<span class="dv">1</span>, <span class="st">"depth"</span>]</span>
+<span id="cb2-89"><a href="#cb2-89" aria-hidden="true" tabindex="-1"></a>    points[<span class="sc">-</span><span class="dv">1</span>,]<span class="ot">-&gt;</span>points</span>
+<span id="cb2-90"><a href="#cb2-90" aria-hidden="true" tabindex="-1"></a>    <span class="fu">data.frame</span>(<span class="at">x1=</span>status[<span class="dv">1</span>, <span class="st">"x"</span>], <span class="at">y1=</span>status[<span class="dv">1</span>, <span class="st">"y"</span>], <span class="at">x2=</span><span class="cn">NA</span>, <span class="at">y2=</span><span class="cn">NA</span>,</span>
+<span id="cb2-91"><a href="#cb2-91" aria-hidden="true" tabindex="-1"></a>               <span class="at">alfa=</span>status[<span class="dv">1</span>, <span class="st">"alfa"</span>],</span>
+<span id="cb2-92"><a href="#cb2-92" aria-hidden="true" tabindex="-1"></a>               <span class="at">depth=</span>depth<span class="dv">-1</span>) <span class="sc">%&gt;%</span></span>
+<span id="cb2-93"><a href="#cb2-93" aria-hidden="true" tabindex="-1"></a>      <span class="fu">rbind</span>(points) <span class="ot">-&gt;</span> points</span>
+<span id="cb2-94"><a href="#cb2-94" aria-hidden="true" tabindex="-1"></a>    status[<span class="sc">-</span><span class="dv">1</span>,]<span class="ot">-&gt;</span>status</span>
+<span id="cb2-95"><a href="#cb2-95" aria-hidden="true" tabindex="-1"></a>  }</span>
+<span id="cb2-96"><a href="#cb2-96" aria-hidden="true" tabindex="-1"></a>}</span>
+<span id="cb2-97"><a href="#cb2-97" aria-hidden="true" tabindex="-1"></a><span class="fu">ggplot</span>() <span class="sc">+</span></span>
+<span id="cb2-98"><a href="#cb2-98" aria-hidden="true" tabindex="-1"></a>  <span class="fu">geom_segment</span>(<span class="fu">aes</span>(<span class="at">x =</span> x1, <span class="at">y =</span> y1, <span class="at">xend =</span> x2, <span class="at">yend =</span> y2),</span>
+<span id="cb2-99"><a href="#cb2-99" aria-hidden="true" tabindex="-1"></a>               <span class="at">lineend =</span> <span class="st">"round"</span>,</span>
+<span id="cb2-100"><a href="#cb2-100" aria-hidden="true" tabindex="-1"></a>               <span class="at">color=</span><span class="st">"limegreen"</span>, <span class="co"># Set your own Fall color? </span></span>
+<span id="cb2-101"><a href="#cb2-101" aria-hidden="true" tabindex="-1"></a>               <span class="at">data=</span><span class="fu">na.omit</span>(points)) <span class="sc">+</span></span>
+<span id="cb2-102"><a href="#cb2-102" aria-hidden="true" tabindex="-1"></a>  <span class="fu">coord_fixed</span>(<span class="at">ratio =</span> <span class="dv">1</span>) <span class="sc">+</span></span>
+<span id="cb2-103"><a href="#cb2-103" aria-hidden="true" tabindex="-1"></a>  <span class="fu">theme_void</span>() <span class="co"># No grid nor axes</span></span>
+<span id="cb2-104"><a href="#cb2-104" aria-hidden="true" tabindex="-1"></a><span class="in">```</span></span>
 <span id="cb2-105"><a href="#cb2-105" aria-hidden="true" tabindex="-1"></a></span>
-<span id="cb2-106"><a href="#cb2-106" aria-hidden="true" tabindex="-1"></a>This chart from Zillow Observed Rent Index and the US Bureau of Labor Statistics shows rent prices outpacing wages in recent years. It shows two lines of different colors, one to represent wages, one to represent rent prices. The chart shows that rent prices are increasing faster than wages, which shows the viewer that rent is becoming increasingly unaffordable.</span>
+<span id="cb2-106"><a href="#cb2-106" aria-hidden="true" tabindex="-1"></a><span class="fu">## 3. Critique on a chart from published work</span></span>
 <span id="cb2-107"><a href="#cb2-107" aria-hidden="true" tabindex="-1"></a></span>
-<span id="cb2-108"><a href="#cb2-108" aria-hidden="true" tabindex="-1"></a>::: Rent When Compared to Wages <span class="al">![](https://wp-assets.stessa.com/wp-content/uploads/2021/11/02101430/Chart1_Changes-in-rental-prices-are-dramatically-outpacing-changes-in-pay.png)</span>{width="70%"}</span>
+<span id="cb2-108"><a href="#cb2-108" aria-hidden="true" tabindex="-1"></a>This chart from Zillow Observed Rent Index and the US Bureau of Labor Statistics shows rent prices outpacing wages in recent years. It shows two lines of different colors, one to represent wages, one to represent rent prices. The chart shows that rent prices are increasing faster than wages, which shows the viewer that rent is becoming increasingly unaffordable.</span>
 <span id="cb2-109"><a href="#cb2-109" aria-hidden="true" tabindex="-1"></a></span>
-<span id="cb2-110"><a href="#cb2-110" aria-hidden="true" tabindex="-1"></a>Rent prices compared to wages :::</span>
+<span id="cb2-110"><a href="#cb2-110" aria-hidden="true" tabindex="-1"></a>Rent When Compared to Wages <span class="al">![](https://wp-assets.stessa.com/wp-content/uploads/2021/11/02101430/Chart1_Changes-in-rental-prices-are-dramatically-outpacing-changes-in-pay.png)</span>{width="70%"}</span>
 <span id="cb2-111"><a href="#cb2-111" aria-hidden="true" tabindex="-1"></a></span>
-<span id="cb2-112"><a href="#cb2-112" aria-hidden="true" tabindex="-1"></a>https://www.stessa.com/blog/cities-wages-growing-faster-than-rents/</span>
+<span id="cb2-112"><a href="#cb2-112" aria-hidden="true" tabindex="-1"></a>Rent prices compared to wages :::</span>
+<span id="cb2-113"><a href="#cb2-113" aria-hidden="true" tabindex="-1"></a></span>
+<span id="cb2-114"><a href="#cb2-114" aria-hidden="true" tabindex="-1"></a>https://www.stessa.com/blog/cities-wages-growing-faster-than-rents/</span>
 </code><button title="Copy to Clipboard" class="code-copy-button"><i class="bi"></i></button></pre></div>
 </div></div></div></div></div>
 </div> <!-- /content -->
